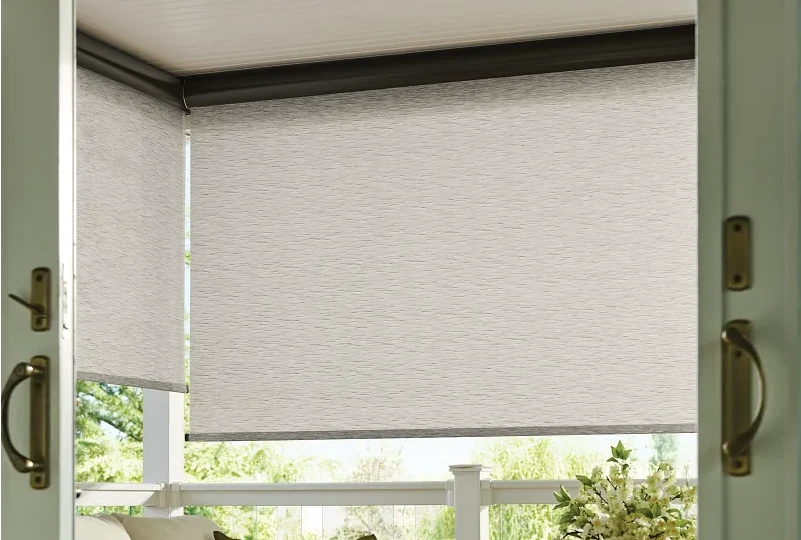
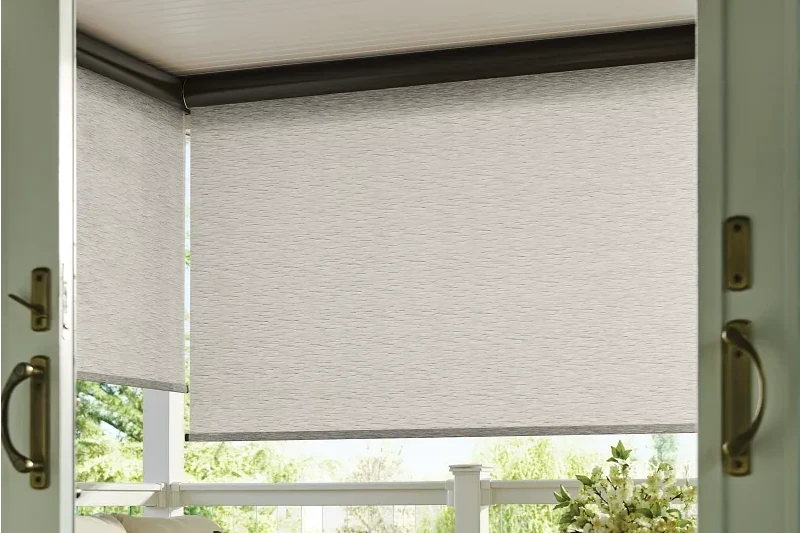
Update

diff --git a/window-shades.html b/window-shades.html
@@ -224,7 +224,7 @@
       <div class="container grid-3-col">
         <div class="card">
           <h2 class='h-center padding-left-5px'>Roller Shades</h2>
-          <img class=' padding-left-5px' src="images/21374-roller-shades.webp" alt="Roller Shades">
+          <img class=' padding-left-5px' src="images/21374-roller-shades.webp" alt="Roller Shades" width="800" height="533">
           <p class=' padding-left-5px'>Graber Roller Shades present a clean, modern style in fresh, on-trend fabrics—from sheer to blackout. You'll find roller
           window shades fit any window, including your extra-wide windows. Plus, the fabric-wrapped flat valance offers a cool,
           contemporary option, making it easier than ever to coordinate clean, modern style throughout your whole home.
@@ -232,13 +232,13 @@
         </div>
         <div class="card">
           <h2 class='h-center padding-left-5px'>Layered Shades</h2>
-          <img class=' padding-left-5px' src="images/4144-layered-shades.webp" alt="Layered Shades">
+          <img class=' padding-left-5px' src="images/4144-layered-shades.webp" alt="Layered Shades" width="800" height="533">
           <p class=' padding-left-5px'>Layered shades (also known as zebra shades) offer a modern take on light control with their alternating bands of sheer and opaque fabrics. When open, the layers align to gently filter light through the sheer material, while closed bands block light for a clean, elegant look. Zebra shades come in exclusive prints, patterns, and textures to create a unique and distinctly modern feel. <a href="/zebra-shades-stylish-solution.html">Discover why zebra shades are Oklahoma City's trending window treatment choice</a>.
 </p>
         </div>
         <div class="card">
           <h2 class='h-center padding-left-5px'>Natural Shades</h2>
-          <img class=' padding-left-5px' src="images/81748-natural-shades-drapes-cornice.webp" alt="Natural Shades">
+          <img class=' padding-left-5px' src="images/81748-natural-shades-drapes-cornice.webp" alt="Natural Shades" width="800" height="533">
           <p class=' padding-left-5px'>Naturally organic and beautifully handwoven, Graber Natural Woven Window Shades are an elegant way to incorporate the
           colors and patterns of nature into your décor. Crafted from sustainable, and natural materials such as jute, bamboo,
           wood, and grasses, they are both smart and green for unique, casual luxury and style.
@@ -246,13 +246,13 @@
         </div>
         <div class="card">
           <h2 id="cellular-shades" class='h-center padding-left-5px'>Cellular Shades</h2>
-          <img class=' padding-left-5px' src="images/0661-cellular-shades-rs22-v1.webp" alt="Cellular Shades">
+          <img class=' padding-left-5px' src="images/0661-cellular-shades-rs22-v1.webp" alt="Cellular Shades" width="800" height="533">
           <p class=' padding-left-5px'>Cellular shades are easy to use, highly durable, energy efficient, and available in fabrics ranging from sheer to blackout. The energy efficiency and beauty of Graber's honeycomb shades have made them one of today's most popular window treatments. They offer a special combination of functionality and elegance, which makes them at home in nearly every room. Perfect for <a href="/Cool-Your-Edmond-Oklahoma-Sunroom.html">cooling hot Oklahoma sunrooms</a> while maintaining style.
 </p>
         </div>
         <div class="card">
           <h2 class='h-center padding-left-5px'>Sliding Panels</h2>
-          <img class=' padding-left-5px' src="images/3406-classic-roman-shade-Sliding-Panels.webp" alt="Sliding Panels">
+          <img class=' padding-left-5px' src="images/3406-classic-roman-shade-Sliding-Panels.webp" alt="Sliding Panels" width="800" height="533">
           <p class=' padding-left-5px'>Sliding panels are a sleek, modern, versatile—and the ideal solution for wide windows and patio doors. For a perfectly
           coordinated look, select a fabric shared with other Graber collections, including Classic Roman, Natural, Roller, and Solar shades.
           </p>
@@ -276,7 +276,7 @@
         </div>
         <div class="card">
           <h2 class='h-center padding-left-5px'>Sheer Shades</h2>
-          <img class=' padding-left-5px' src="images/5255-sheer-shades.webp" alt="Sheer Shades">
+          <img class=' padding-left-5px' src="images/5255-sheer-shades.webp" alt="Sheer Shades" height="533" width="800">
           <p class=' padding-left-5px'>Go from sheer and clear to private and serene in seconds with Graber Sheer Shades. Clean and modern, these “soft blinds” combine the gentle, light filtering attributes of soft, fabric shades with the reliable light control and functionality
           of conventional blinds. And now they're available with the new cordless lift system—for the ultimate in smooth
           precision.
@@ -284,7 +284,7 @@
         </div>
         <div class="card">
           <h2 class='h-center padding-left-5px' id='RomanShades'>Roman Shades</h2>
-          <img class=' padding-left-5px' src="images/3990-classic-roman-shades.webp" alt="Roman Shades">
+          <img class=' padding-left-5px' src="images/3990-classic-roman-shades.webp" alt="Roman Shades" width="800" height="533">
           <p class=' padding-left-5px'>Discover the versatility, warmth, and beauty of Graber Roman Shades, available in three distinct types. Classic Roman shades combine a timeless look with unmatched functionality. Tailored Roman Shades offer a dazzling variety of colors and patterns,  hand-tailored with options to suit every décor. And Natural Roman Shades utilize the beauty of naturally grown materials to create window treatments that are true works of art.
           </p>
         </div>
